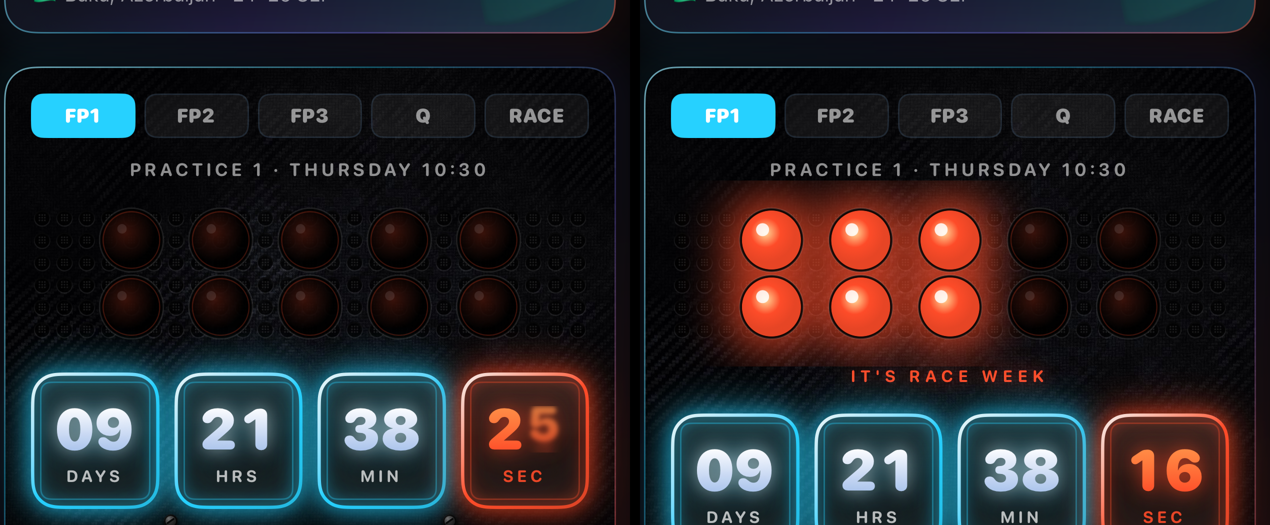
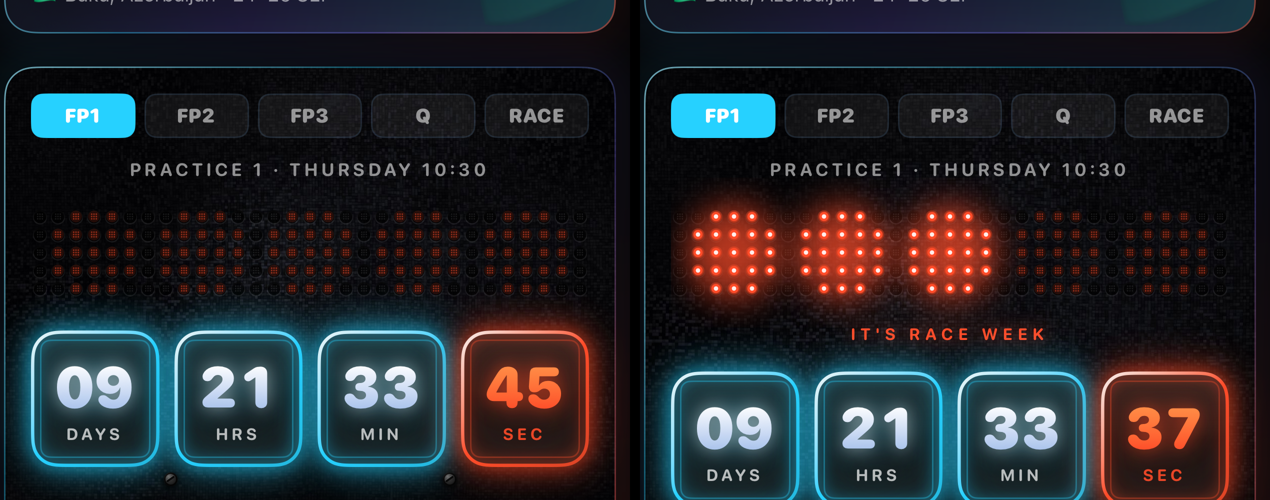
Carbon: randomly placed strand tiles, no twill diagonals; gantry: five disc-shaped LED clusters in one compact row

diff --git a/TeamRadio/Views/CockpitKit.swift b/TeamRadio/Views/CockpitKit.swift
@@ -91,84 +91,86 @@ struct NeonTile: View {
     }
 }
 
-/// The start gantry: ten round lamps (five columns of two) mounted on a
-/// matrix of small LED holes. Lamps are dark red lenses until race week
-/// lights them column by column; lights out once the session is running.
+/// The start gantry as an LED matrix: five round lamps in a row, each a
+/// disc-shaped cluster of 21 LEDs. Dark red while armed, they light column
+/// by column through race week; lights out once the session is running.
 struct DotMatrixBoard: View {
     let litLights: Int
     var lightColor: Color = Theme.live
 
     var body: some View {
         Canvas { ctx, size in
-            let cols = 25
-            let rows = 6
+            let cols = 31                   // five 5-wide lamps, single gaps, one spare column each side
+            let rows = 5
             let pitch = size.width / CGFloat(cols)
             let top = (size.height - CGFloat(rows) * pitch) / 2
-            let hole = pitch * 0.34
-            let cellStep = pitch * 0.12
-            let cellR = pitch * 0.038
-            let lampR = pitch * 1.32
+            let hole = pitch * 0.36
+            let cellStep = pitch * 0.13
+            let cellR = pitch * 0.04
 
-            func center(_ col: CGFloat, _ row: CGFloat) -> CGPoint {
-                CGPoint(x: col * pitch + pitch / 2, y: top + row * pitch + pitch / 2)
+            func center(_ col: Int, _ row: Int) -> CGPoint {
+                CGPoint(x: CGFloat(col) * pitch + pitch / 2, y: top + CGFloat(row) * pitch + pitch / 2)
             }
             func disc(_ p: CGPoint, _ r: CGFloat, _ shading: GraphicsContext.Shading, in c: inout GraphicsContext) {
                 c.fill(Path(ellipseIn: CGRect(x: p.x - r, y: p.y - r, width: 2 * r, height: 2 * r)), with: shading)
             }
-            func ring(_ p: CGPoint, _ r: CGFloat, _ color: Color, _ width: CGFloat, in c: inout GraphicsContext) {
-                c.stroke(Path(ellipseIn: CGRect(x: p.x - r, y: p.y - r, width: 2 * r, height: 2 * r)), with: .color(color), lineWidth: width)
-            }
-
-            // the LED hole matrix
-            for c in 0..<cols {
-                for r in 0..<rows {
-                    let p = center(CGFloat(c), CGFloat(r))
-                    ring(CGPoint(x: p.x, y: p.y + 0.6), hole, .white.opacity(0.07), 0.8, in: &ctx)
-                    disc(p, hole, .color(.black.opacity(0.7)), in: &ctx)
-                    for dx in -1...1 {
-                        for dy in -1...1 {
-                            disc(CGPoint(x: p.x + CGFloat(dx) * cellStep, y: p.y + CGFloat(dy) * cellStep), cellR, .color(.white.opacity(0.09)), in: &ctx)
-                        }
+            func cells(_ p: CGPoint, _ r: CGFloat, _ shading: GraphicsContext.Shading, in c: inout GraphicsContext) {
+                for dx in -1...1 {
+                    for dy in -1...1 {
+                        disc(CGPoint(x: p.x + CGFloat(dx) * cellStep, y: p.y + CGFloat(dy) * cellStep), r, shading, in: &c)
                     }
                 }
             }
 
-            // lamp positions: five columns across, two rows
-            let first = CGFloat((cols - (5 * 3 + 4)) / 2)
-            var lamps: [(CGPoint, Bool)] = []
+            // lamp c: a 5×5 block with the corners cut — reads as a disc
+            var lit: Set<Int> = []          // key: row * 1000 + col
+            var armed: Set<Int> = []
+            var lampCenters: [(CGPoint, Bool)] = []
             for c in 0..<5 {
-                for rowCenter in [1.0, 4.0] as [CGFloat] {
-                    lamps.append((center(first + 1 + CGFloat(c) * 4, rowCenter), c < litLights))
+                let cc = 3 + c * 6
+                lampCenters.append((center(cc, 2), c < litLights))
+                for dc in -2...2 {
+                    for dr in -2...2 where abs(dc) + abs(dr) <= 3 {
+                        let key = (2 + dr) * 1000 + cc + dc
+                        if c < litLights { lit.insert(key) } else { armed.insert(key) }
+                    }
                 }
             }
 
-            // bloom first, so it sits under every lens
-            ctx.drawLayer { layer in
-                layer.addFilter(.blur(radius: pitch * 1.1))
-                for (p, on) in lamps where on {
-                    disc(p, lampR * 1.5, .color(lightColor.opacity(0.8)), in: &layer)
+            // every hole: dark recess with a rim; armed ones glow deep red, the rest stay grey
+            for c in 0..<cols {
+                for r in 0..<rows {
+                    let p = center(c, r)
+                    ctx.stroke(Path(ellipseIn: CGRect(x: p.x - hole, y: p.y - hole + 0.6, width: 2 * hole, height: 2 * hole)),
+                               with: .color(.white.opacity(0.07)), lineWidth: 0.8)
+                    disc(p, hole, .color(.black.opacity(0.7)), in: &ctx)
+                    let key = r * 1000 + c
+                    if armed.contains(key) {
+                        disc(p, hole * 0.9, .color(lightColor.opacity(0.14)), in: &ctx)
+                        cells(p, cellR * 1.1, .color(lightColor.opacity(0.5)), in: &ctx)
+                    } else if !lit.contains(key) {
+                        cells(p, cellR, .color(.white.opacity(0.09)), in: &ctx)
+                    }
                 }
             }
-            for (p, on) in lamps {
-                // housing
-                disc(p, lampR * 1.08, .color(.black.opacity(0.85)), in: &ctx)
-                ring(p, lampR * 1.08, .white.opacity(0.10), 1, in: &ctx)
-                if on {
-                    disc(p, lampR, .radialGradient(Gradient(colors: [Color(red: 1, green: 0.85, blue: 0.6), lightColor, lightColor.opacity(0.9)]),
-                                                   center: CGPoint(x: p.x - lampR * 0.2, y: p.y - lampR * 0.25), startRadius: 0, endRadius: lampR), in: &ctx)
-                    disc(CGPoint(x: p.x - lampR * 0.3, y: p.y - lampR * 0.35), lampR * 0.22, .color(.white.opacity(0.85)), in: &ctx)
-                } else {
-                    // dark lens: deep red glass, a faint rim, a whisper of reflection
-                    disc(p, lampR, .radialGradient(Gradient(colors: [lightColor.opacity(0.22), lightColor.opacity(0.10), Color.black.opacity(0.6)]),
-                                                   center: CGPoint(x: p.x - lampR * 0.2, y: p.y - lampR * 0.25), startRadius: 0, endRadius: lampR), in: &ctx)
-                    ring(p, lampR * 0.96, lightColor.opacity(0.22), 0.8, in: &ctx)
-                    disc(CGPoint(x: p.x - lampR * 0.32, y: p.y - lampR * 0.38), lampR * 0.16, .color(.white.opacity(0.10)), in: &ctx)
+
+            // lit lamps: one bloom per lamp, then every LED in the disc burns
+            ctx.drawLayer { layer in
+                layer.addFilter(.blur(radius: pitch * 1.0))
+                for (p, on) in lampCenters where on {
+                    disc(p, pitch * 2.6, .color(lightColor.opacity(0.7)), in: &layer)
                 }
+            }
+            for key in lit {
+                let p = center(key % 1000, key / 1000)
+                disc(p, hole * 0.95, .color(lightColor.opacity(0.4)), in: &ctx)
+                disc(p, hole * 0.72, .color(lightColor), in: &ctx)
+                disc(p, hole * 0.34, .color(.white.opacity(0.9)), in: &ctx)
             }
         }
         // taller than the grid so the bloom isn't clipped; the negative
         // padding hands the spare room back to the layout
-        .frame(height: 124)
-        .padding(.vertical, -14)
+        .frame(height: 100)
+        .padding(.vertical, -16)
     }
 }
